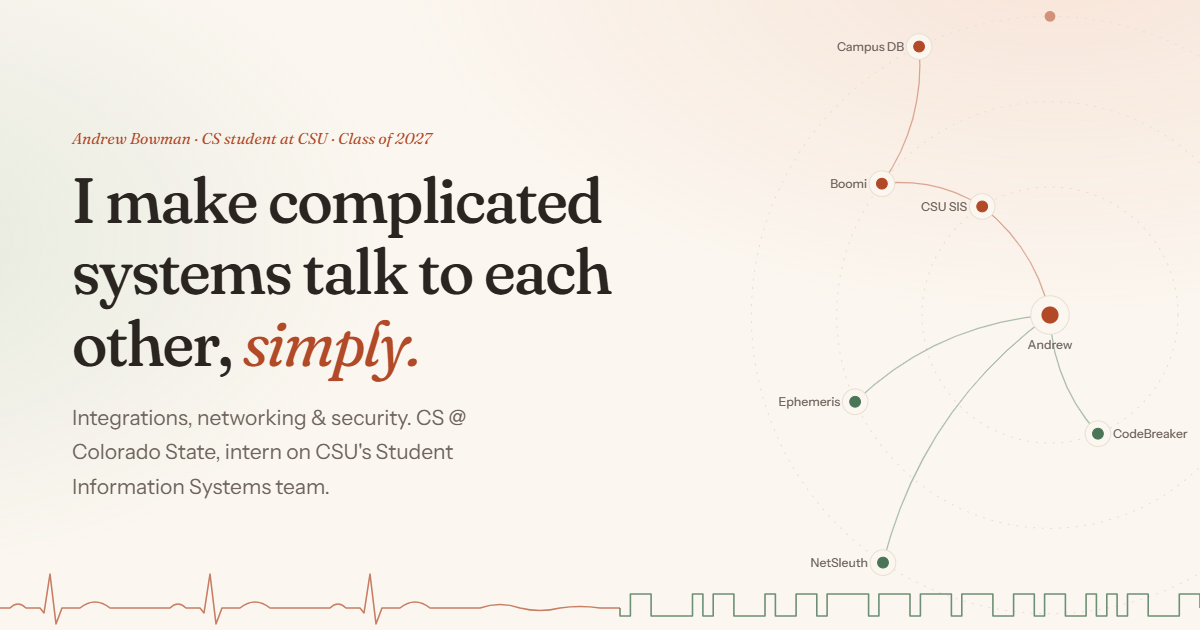
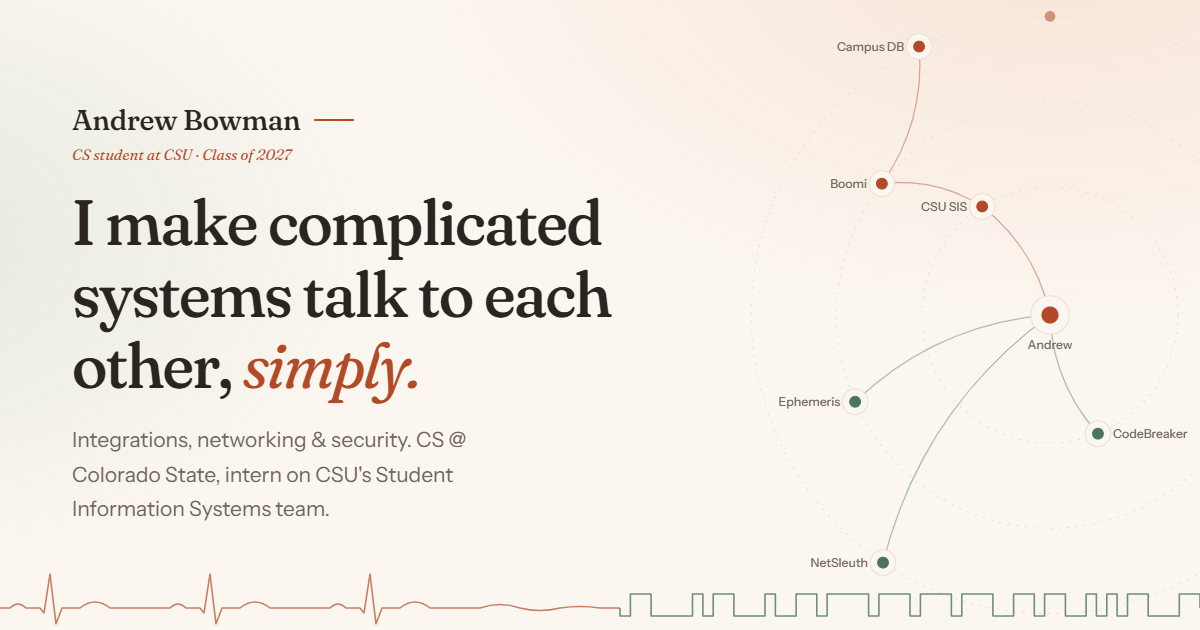
Give my name its own line in the hero and preview image
Name in the serif at ~1.9rem with an accent rule, details on a smaller line below; hero padding trimmed so it still fits one screen.

Changed region(s): [[0.0617, 0.181, 0.5242, 0.8143], [0.4933, 0.2714, 0.5242, 0.3016]]

diff --git a/src/components/Hero.module.css b/src/components/Hero.module.css
@@ -1,13 +1,37 @@
 .hero {
   position: relative;
   overflow: hidden;
-  padding: clamp(80px, 12vw, 140px) 0 clamp(88px, 11vw, 136px);
+  padding: clamp(64px, 9vw, 104px) 0 clamp(88px, 10vw, 128px);
 }
 
 /* The text column sits over the art; let the mouse reach the art's nodes
    everywhere except the text itself. */
 .inner { position: relative; pointer-events: none; }
 .inner > * { pointer-events: auto; max-width: min(100%, 720px); }
+
+/* Name first, then the details, then the headline */
+.name {
+  display: flex;
+  align-items: center;
+  gap: 14px;
+  margin: 0;
+  font-family: var(--serif);
+  font-variation-settings: "SOFT" 60;
+  font-size: clamp(1.5rem, 2.6vw, 1.9rem);
+  font-weight: 500;
+  letter-spacing: -0.01em;
+  line-height: 1.2;
+  color: var(--ink);
+}
+.name::after {
+  content: "";
+  width: 40px;
+  height: 2px;
+  border-radius: 2px;
+  background: var(--accent);
+}
+
+.meta { margin: 6px 0 18px; font-size: 1rem; }
 
 .title {
   font-size: clamp(2.3rem, 5.8vw, 4rem);

diff --git a/src/components/Hero.tsx b/src/components/Hero.tsx
@@ -13,8 +13,9 @@ export default async function Hero() {
       <HeroArt />
 
       <div className={`container ${styles.inner}`}>
-        <span className="eyebrow">
-          Andrew Bowman · CS student{me.schoolShort ? ` at ${me.schoolShort}` : ""}
+        <p className={styles.name}>{site.name}</p>
+        <span className={`eyebrow ${styles.meta}`}>
+          CS student{me.schoolShort ? ` at ${me.schoolShort}` : ""}
           {me.gradYear ? ` · Class of ${me.gradYear}` : ""}
         </span>
         <h1 className={styles.title}>
